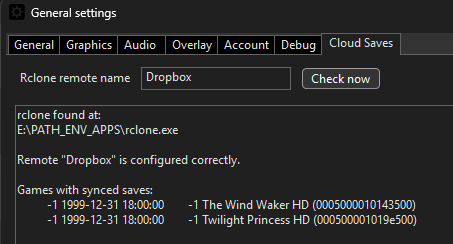
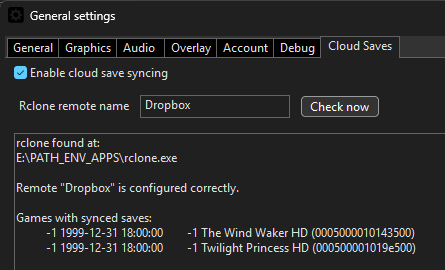
CloudSync: add checkbox to enable/disable cloud save syncing
Adds a persisted cloud_sync_enabled setting (default on) and an
"Enable cloud save syncing" checkbox in the Cloud Saves settings tab.
When unchecked, SAVEInit skips both the pull and push rclone calls
entirely, while save directory/meta creation continues as normal.
Remote name field, check button, and status box grey out when
disabled for visual feedback.

diff --git a/src/gui/wxgui/GeneralSettings2.cpp b/src/gui/wxgui/GeneralSettings2.cpp
@@ -1082,6 +1082,11 @@ wxPanel* GeneralSettings2::AddCloudSavesPage(wxNotebook* notebook)
 	auto* panel = new wxPanel(notebook, wxID_ANY, wxDefaultPosition, wxDefaultSize, wxTAB_TRAVERSAL);
 	auto* sizer = new wxBoxSizer(wxVERTICAL);
 
+	m_cloud_sync_enabled = new wxCheckBox(panel, wxID_ANY, _("Enable cloud save syncing"));
+	m_cloud_sync_enabled->SetToolTip(_("When enabled, saves are pulled from the configured rclone remote when a game starts and pushed back up afterwards."));
+	m_cloud_sync_enabled->Bind(wxEVT_CHECKBOX, &GeneralSettings2::OnCloudSyncEnabledChanged, this);
+	sizer->Add(m_cloud_sync_enabled, 0, wxALL, 5);
+
 	{
 		auto* row = new wxFlexGridSizer(0, 3, 0, 0);
 		row->SetFlexibleDirection(wxBOTH);
@@ -1094,9 +1099,9 @@ wxPanel* GeneralSettings2::AddCloudSavesPage(wxNotebook* notebook)
 		m_cloud_remote_name->SetToolTip(_("The name of the rclone remote CloudSync uses to sync save files (as configured via \"rclone config\"). Doesn't have to be Dropbox - any rclone-supported cloud provider works."));
 		row->Add(m_cloud_remote_name, 0, wxALL | wxEXPAND, 5);
 
-		auto* check_button = new wxButton(panel, wxID_ANY, _("Check now"));
-		check_button->Bind(wxEVT_BUTTON, &GeneralSettings2::OnCloudSavesCheckNow, this);
-		row->Add(check_button, 0, wxALL, 5);
+		m_cloud_check_button = new wxButton(panel, wxID_ANY, _("Check now"));
+		m_cloud_check_button->Bind(wxEVT_BUTTON, &GeneralSettings2::OnCloudSavesCheckNow, this);
+		row->Add(m_cloud_check_button, 0, wxALL, 5);
 
 		sizer->Add(row, 0, wxALL | wxEXPAND, 5);
 	}
@@ -1114,6 +1119,19 @@ void GeneralSettings2::OnCloudSavesCheckNow(wxCommandEvent& event)
 	std::string message;
 	CloudSync::CheckCloudRemote(m_cloud_remote_name->GetValue().utf8_string(), message);
 	m_cloud_saves_status->SetValue(message);
+}
+
+void GeneralSettings2::OnCloudSyncEnabledChanged(wxCommandEvent& event)
+{
+	UpdateCloudSavesControlsEnabled();
+}
+
+void GeneralSettings2::UpdateCloudSavesControlsEnabled()
+{
+	const bool enabled = m_cloud_sync_enabled->IsChecked();
+	m_cloud_remote_name->Enable(enabled);
+	m_cloud_check_button->Enable(enabled);
+	m_cloud_saves_status->Enable(enabled);
 }
 
 GeneralSettings2::GeneralSettings2(wxWindow* parent, bool game_launched, int initialTab)
@@ -1345,6 +1363,7 @@ void GeneralSettings2::StoreConfig()
 #endif
 
 	// cloud saves
+	config.cloud_sync_enabled = m_cloud_sync_enabled->IsChecked();
 	config.cloud_sync_remote_name = m_cloud_remote_name->GetValue().utf8_string();
 
 	GetConfigHandle().Save();
@@ -2108,7 +2127,9 @@ void GeneralSettings2::ApplyConfig()
 #endif
 
 	// cloud saves
+	m_cloud_sync_enabled->SetValue(config.cloud_sync_enabled.GetValue());
 	m_cloud_remote_name->SetValue(wxString::FromUTF8(config.cloud_sync_remote_name.GetValue()));
+	UpdateCloudSavesControlsEnabled();
 	{
 		std::string message;
 		CloudSync::CheckCloudRemote(m_cloud_remote_name->GetValue().utf8_string(), message);

diff --git a/src/Cafe/OS/libs/nn_save/nn_save.cpp b/src/Cafe/OS/libs/nn_save/nn_save.cpp
@@ -489,7 +489,10 @@ namespace save
 			uint32 high = GetTitleIdHigh(titleId) & (~0xC);
 			uint32 low = GetTitleIdLow(titleId);
 
-			CloudSync_PullSaveFromDropbox(high, low, titleId);
+			const bool cloudSyncEnabled = GetConfig().cloud_sync_enabled.GetValue();
+
+			if (cloudSyncEnabled)
+				CloudSync_PullSaveFromDropbox(high, low, titleId);
 
 			sint32 fscStatus = FSC_STATUS_FILE_NOT_FOUND;
 			char path[256];
@@ -502,7 +505,8 @@ namespace save
 
 			iosu::acp::CreateSaveMetaFiles(ActiveSettings::GetPersistentId(), titleId);
 
-			CloudSync_PushSaveToDropbox(high, low, titleId);
+			if (cloudSyncEnabled)
+				CloudSync_PushSaveToDropbox(high, low, titleId);
 		}
 
 		return SAVE_STATUS_OK;

diff --git a/src/gui/wxgui/GeneralSettings2.h b/src/gui/wxgui/GeneralSettings2.h
@@ -110,10 +110,14 @@ private:
 #endif
 
 	// Cloud Saves
+	wxCheckBox* m_cloud_sync_enabled;
 	wxTextCtrl* m_cloud_remote_name;
+	wxButton* m_cloud_check_button;
 	wxTextCtrl* m_cloud_saves_status;
 
 	void OnCloudSavesCheckNow(wxCommandEvent& event);
+	void OnCloudSyncEnabledChanged(wxCommandEvent& event);
+	void UpdateCloudSavesControlsEnabled();
 
 	void OnAccountCreate(wxCommandEvent& event);
 	void OnAccountDelete(wxCommandEvent& event);

diff --git a/src/config/CemuConfig.cpp b/src/config/CemuConfig.cpp
@@ -280,6 +280,7 @@ XMLConfigParser CemuConfig::Load(XMLConfigParser& parser)
 
 	// cloud saves
 	auto cloudSaves = parser.get("CloudSaves");
+	cloud_sync_enabled = cloudSaves.get("Enabled", true);
 	cloud_sync_remote_name = cloudSaves.get("RcloneRemoteName", "Dropbox");
 
 	// input
@@ -448,6 +449,7 @@ XMLConfigParser CemuConfig::Save(XMLConfigParser& parser)
 
 	// cloud saves
 	auto cloudSaves = config.set("CloudSaves");
+	cloudSaves.set<bool>("Enabled", cloud_sync_enabled);
 	cloudSaves.set("RcloneRemoteName", cloud_sync_remote_name.GetValue().c_str());
 
 	// input

diff --git a/src/config/CemuConfig.h b/src/config/CemuConfig.h
@@ -518,6 +518,7 @@ struct CemuConfig
 #endif
 
 	// cloud saves
+	ConfigValue<bool> cloud_sync_enabled{ true };
 	ConfigValue<std::string> cloud_sync_remote_name{ "Dropbox" };
 
 	XMLConfigParser Load(XMLConfigParser& parser);